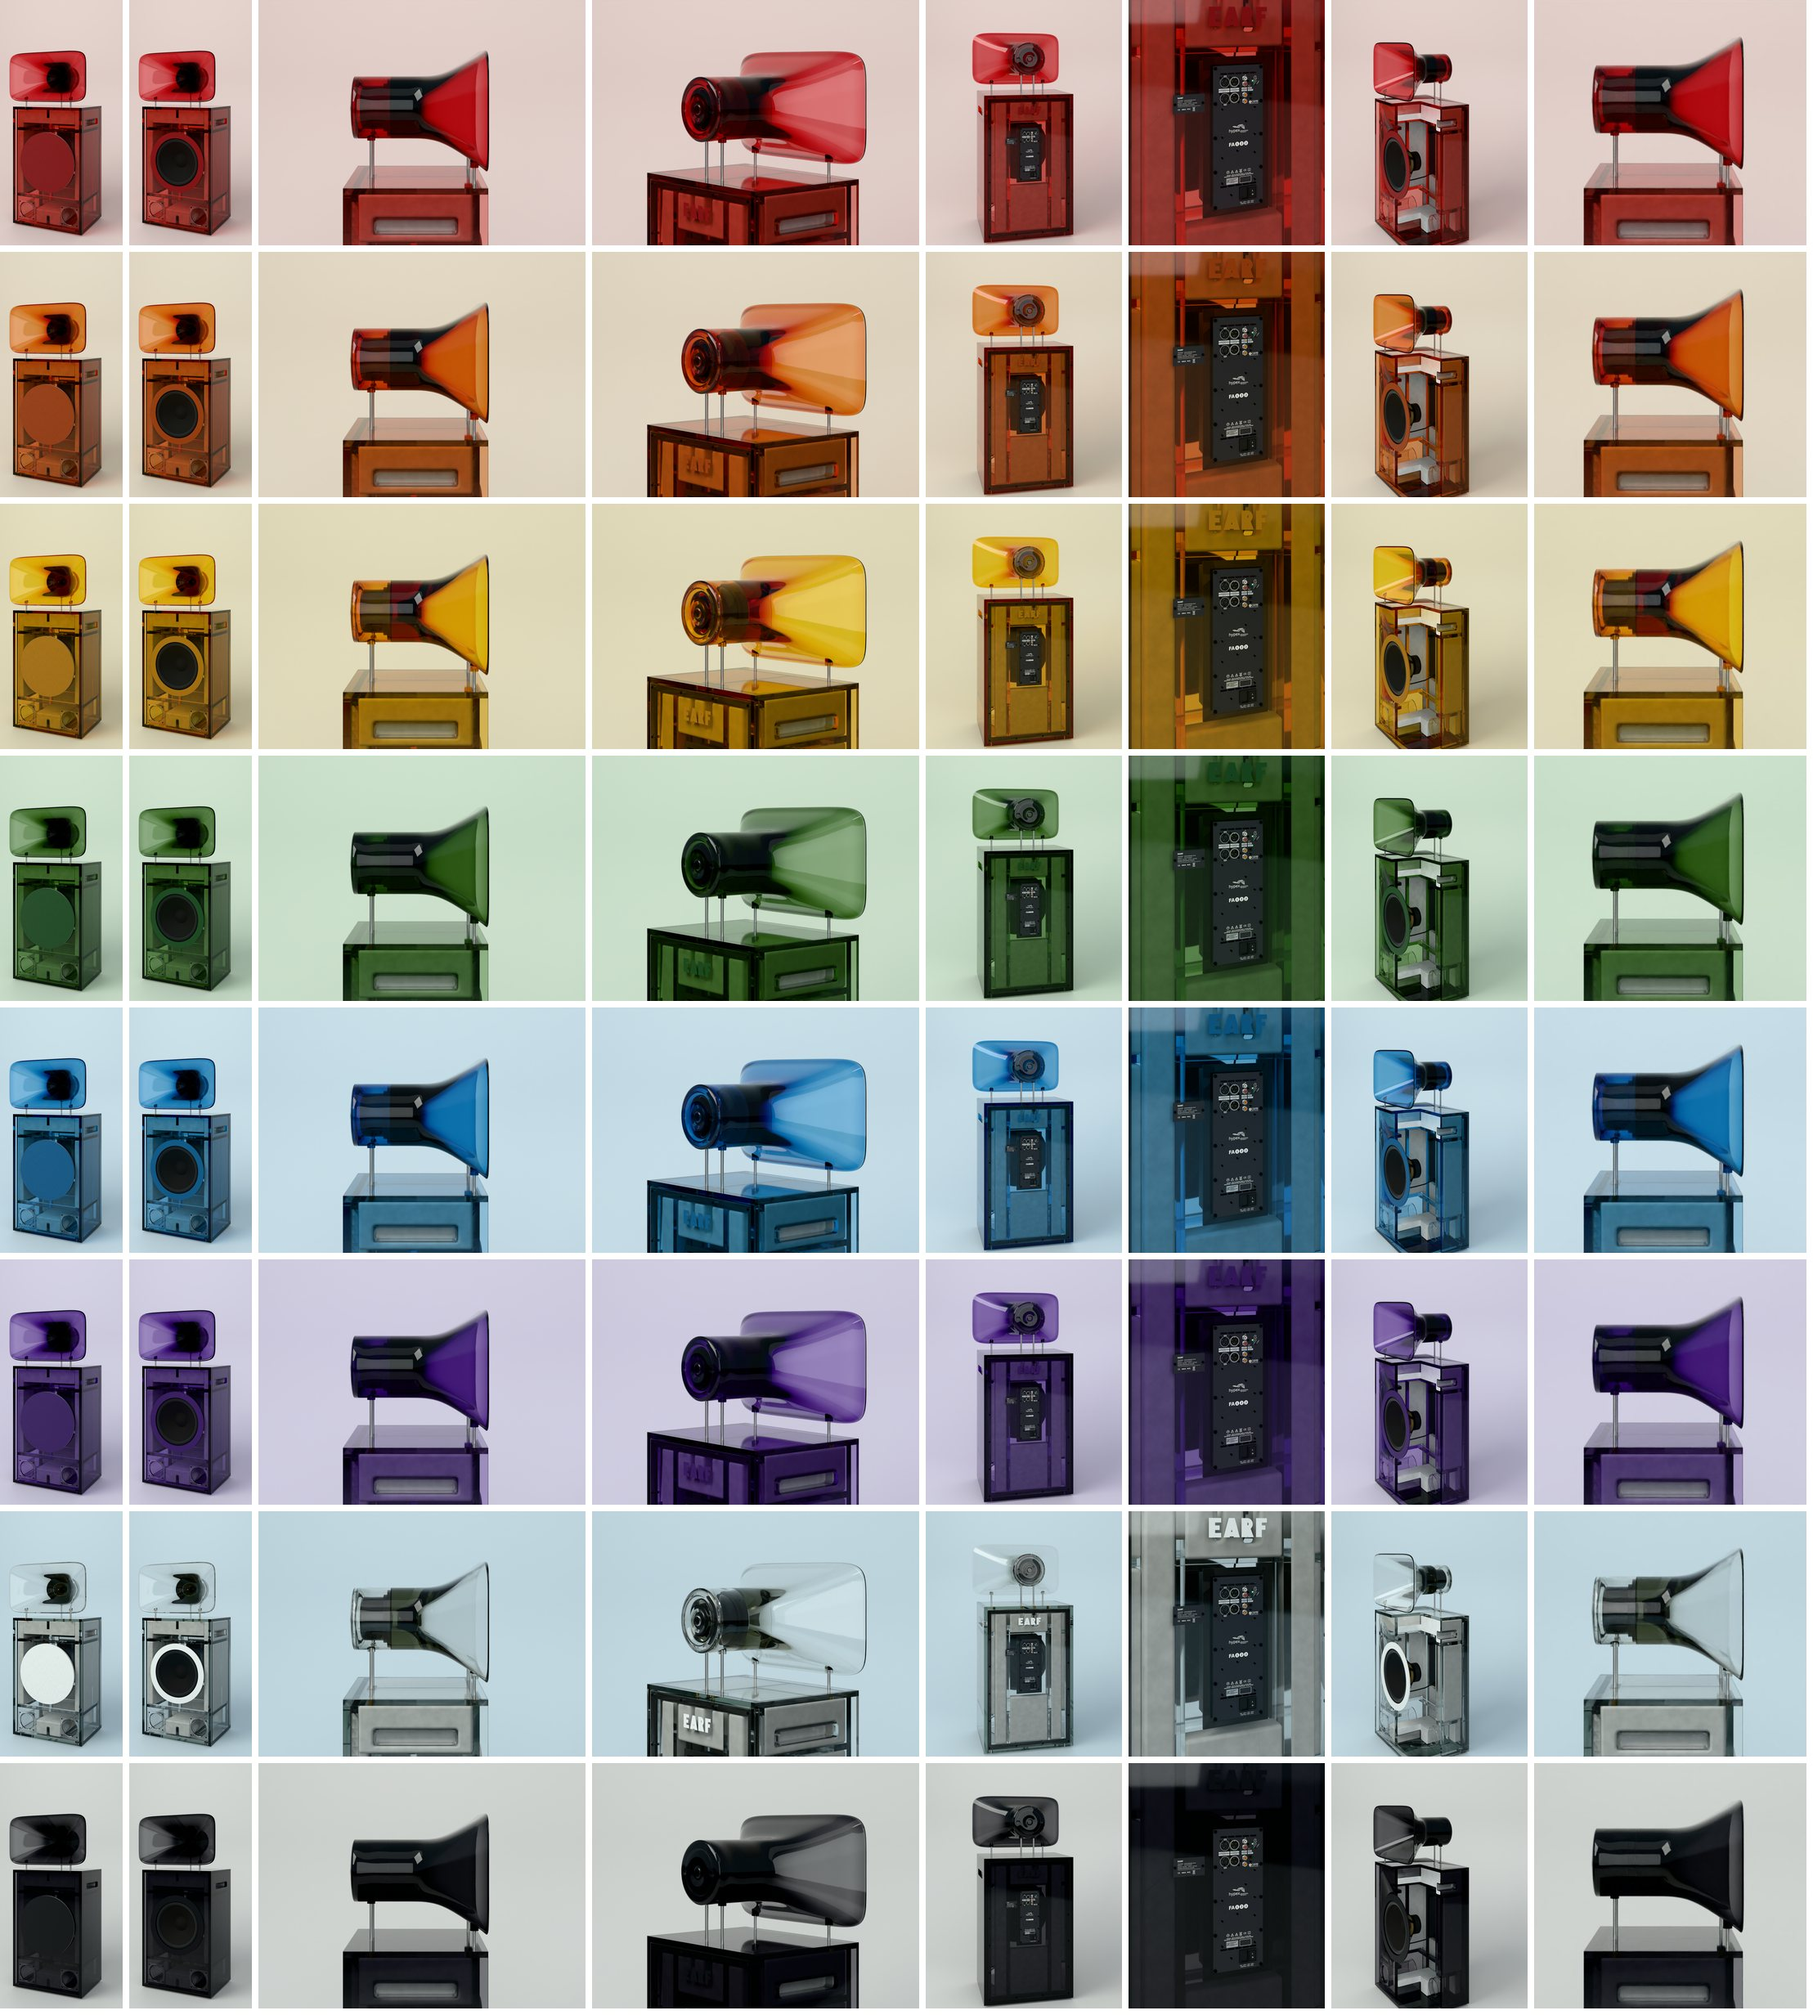
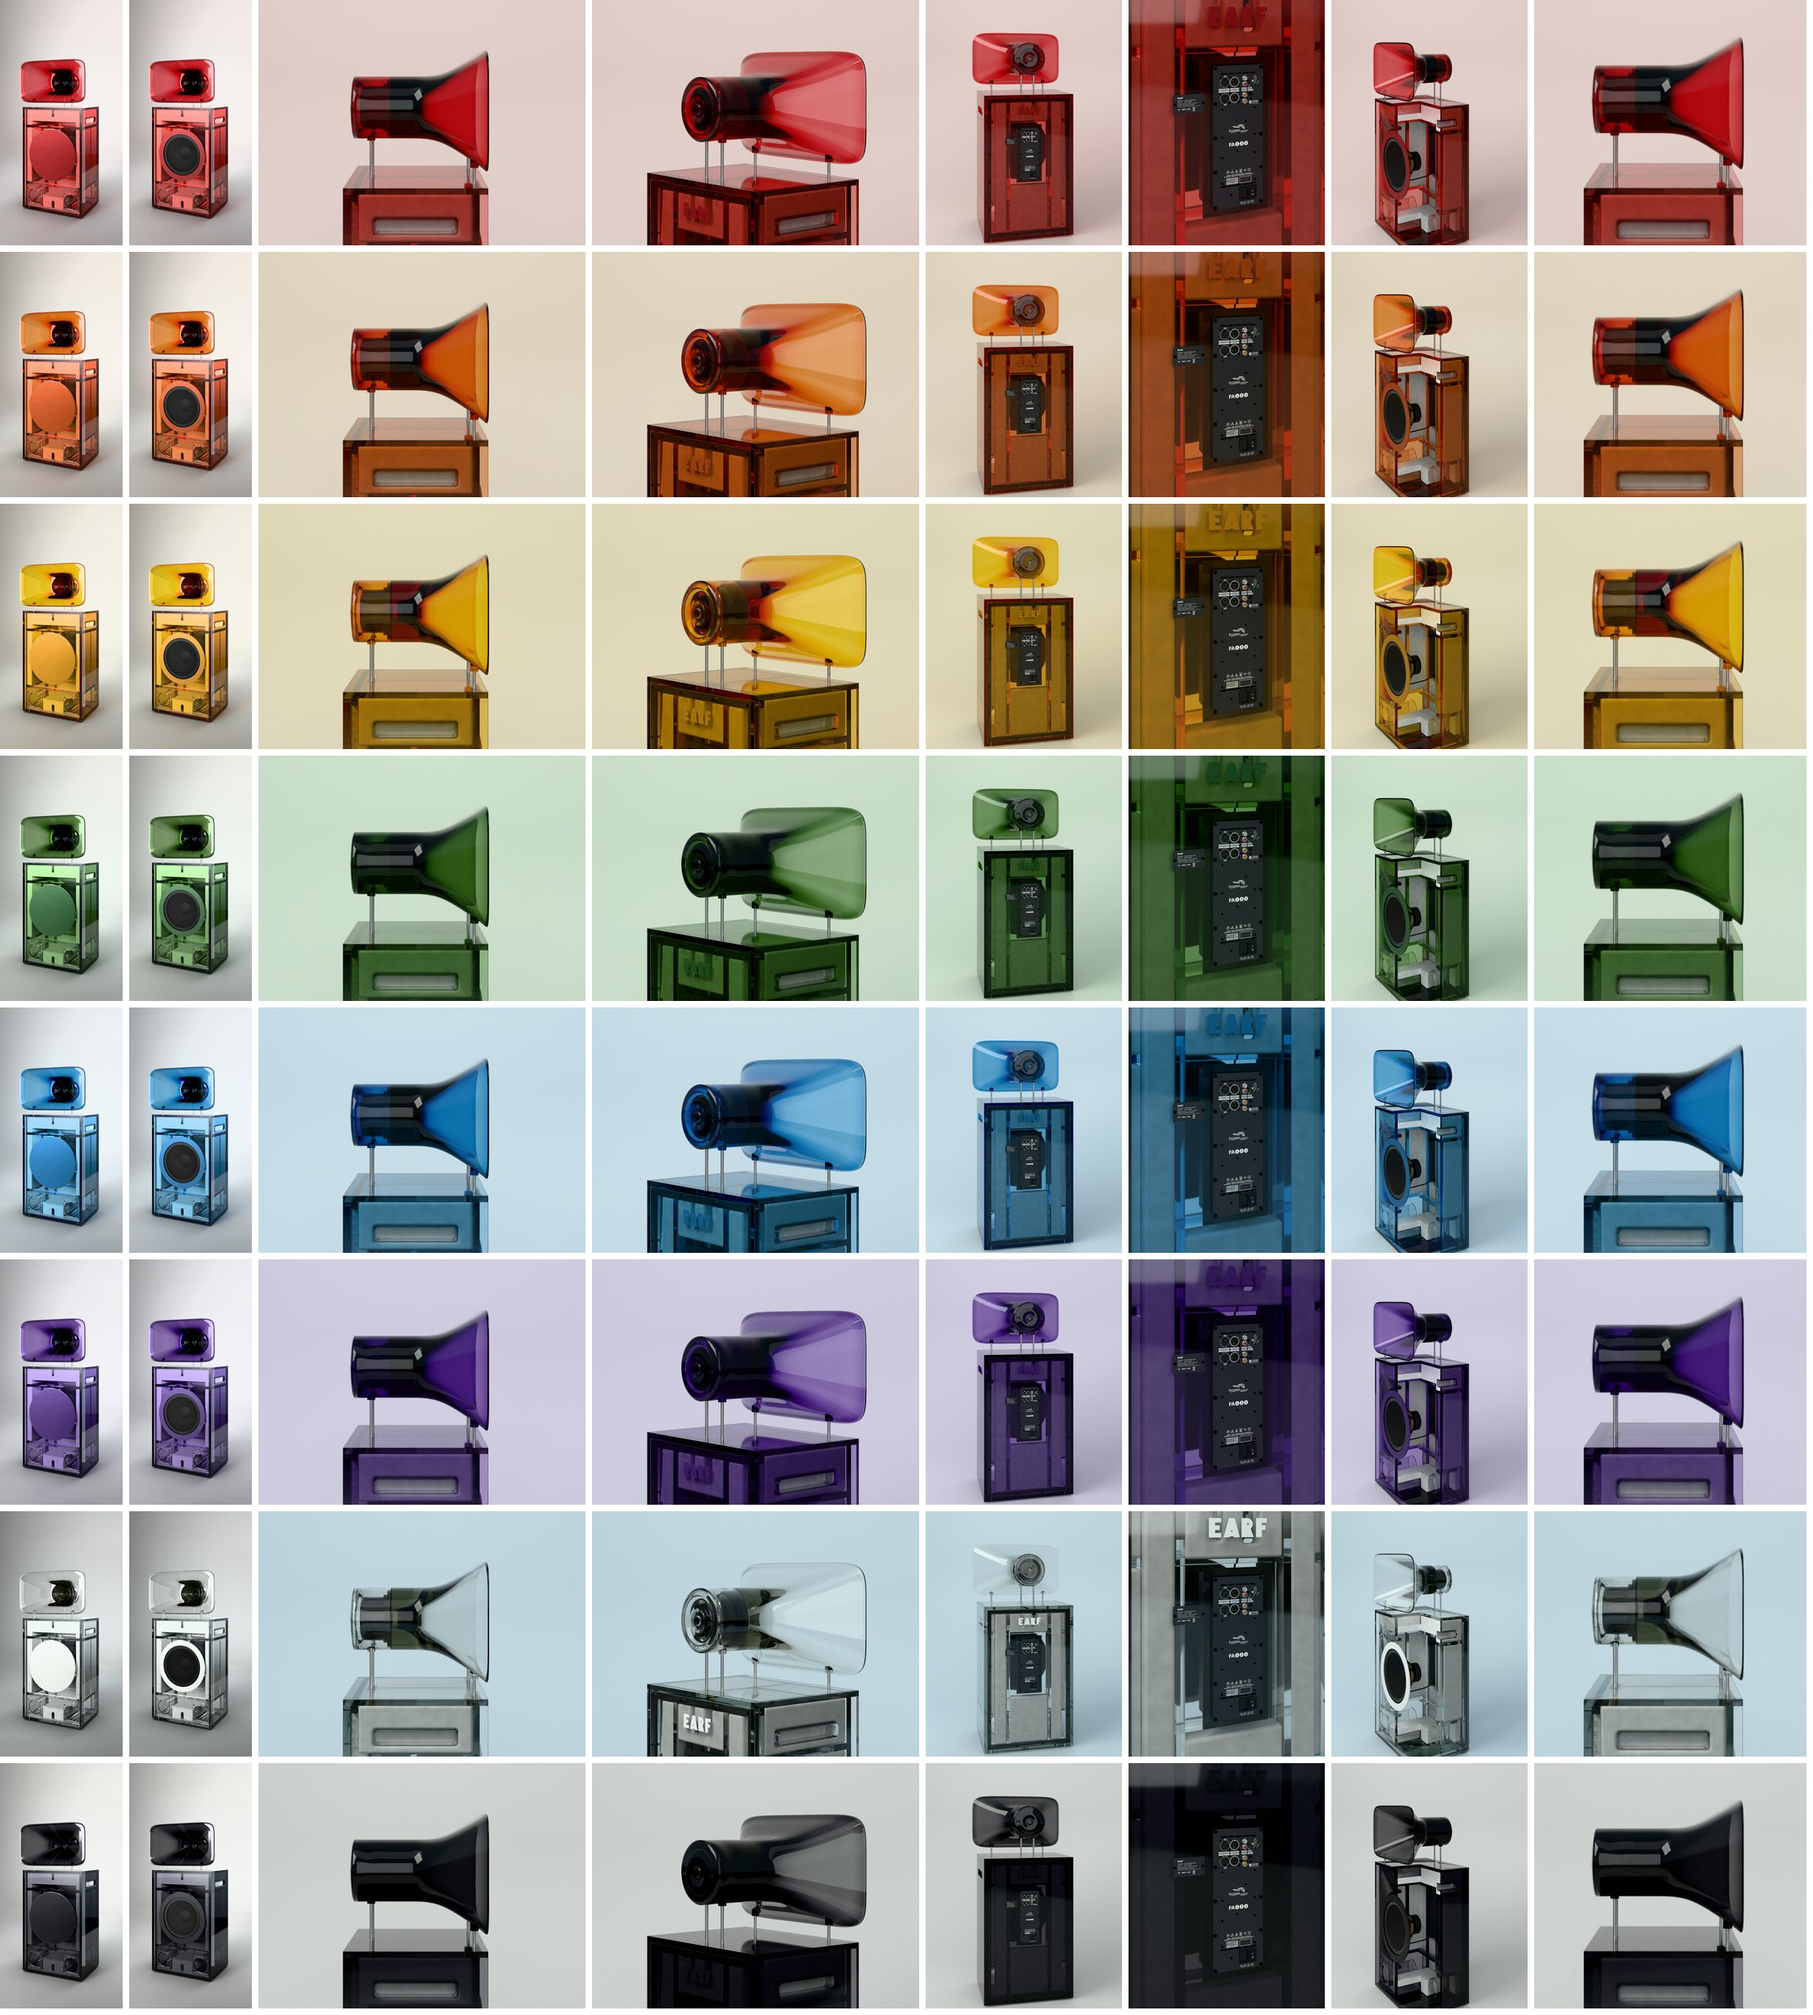
barkhorn catalogue31: all sixteen front finals together; the sheet and the log
Claude-Session: https://claude.ai/code/session_01Ng4hqL6G3nGTFFEXBUWxiA

Changed region(s): [[0.0, 0.0, 0.1556, 1.0]]

diff --git a/spinoffs/barkhorn/catalogue31.md b/spinoffs/barkhorn/catalogue31.md
@@ -148,3 +148,23 @@ to 1.0, the horn light's specular to 0.5, a darker floor under the cabinet (wash
 tooth (a material on the sweep: an engine change, not made here). A coloured pool needs either refractive caustics
 (noisy at these samples) or light linking that lets the backlight reach the paper through the acrylic without its
 glossy streak; neither was worth a re-render of all sixteen.
+
+All sixteen finals, merged from the helpers' branches (`r31-catalogue-<k>`) and this session's (Ice, Smoke), at
+1080 x 2160, 256 samples; `finals.py check` passes them (a grip in frame, the right colour; its other 42 "stale" are
+the other views, older than this container's model rebuild by file time only), and every PNG is 2.4 to 2.7 MB:
+
+| colour | cover on | cover off |
+|---|---|---|
+| Ember (red) | 44 min, 2.61 MB | 43 min, 2.56 MB |
+| Dust (orange) | 63 min, 2.64 MB | 64 min, 2.60 MB |
+| Acid (amber) | 69 min, 2.62 MB | 67 min, 2.60 MB |
+| Poison (green) | 66 min, 2.55 MB | 68 min, 2.51 MB |
+| Ice (blue) | 65 min, 2.60 MB | 66 min, 2.57 MB |
+| Haze (violet) | 42 min, 2.54 MB | 40 min, 2.51 MB |
+| Fog (ice) | 70 min, 2.55 MB | 67 min, 2.57 MB |
+| Smoke (black) | 50 min, 2.42 MB | 49 min, 2.42 MB |
+
+The sheet: `renders/2026-10-18/barkhorn/catalogue31/front-sheet.jpg` (the sixteen, cover on above, off below) and
+`finals31/sheet.jpg` (every view). Looked at side by side they read as one set: the same framing, light and paper
+falloff, each colour on a whisper of its own tint; Fog's white cloth holds its weave at -0.6 EV, Smoke's dark acrylic
+shows its lining and a surface on its side panel.
